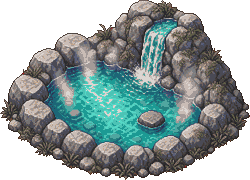
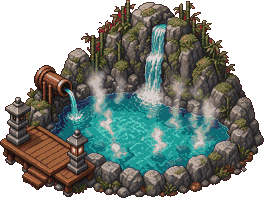
Add shooting/massage/pingpong/nap, 5 decor, distinct Lv2/4 art, manual water areas, small-item scale

diff --git a/assets/lights.js b/assets/lights.js
@@ -1,2 +1,2 @@
 // tools/lights.py 생성: 스프라이트별 광원 점 (마스크는 assets/lights/*.png)
-window.LIGHTS={"dango_lv1": [[0.752, 0.492, 83.0], [0.201, 0.476, 46.3], [0.377, 0.522, 45.9], [0.312, 0.37, 27.3], [0.554, 0.732, 22.0], [0.123, 0.407, 17.0], [0.248, 0.625, 13.0]], "dango_lv2": [[0.752, 0.492, 83.0], [0.201, 0.476, 46.3], [0.377, 0.522, 45.9], [0.312, 0.37, 27.3], [0.554, 0.732, 22.0], [0.123, 0.407, 17.0], [0.248, 0.625, 13.0]], "dango_lv3": [[0.306, 0.507, 44.0], [0.325, 0.594, 21.2], [0.106, 0.417, 18.9], [0.226, 0.546, 16.0], [0.321, 0.698, 12.0], [0.893, 0.456, 11.0], [0.733, 0.758, 11.0]], "dango_lv4": [[0.306, 0.507, 44.0], [0.325, 0.594, 21.2], [0.106, 0.417, 18.9], [0.226, 0.546, 16.0], [0.321, 0.698, 12.0], [0.893, 0.456, 11.0], [0.733, 0.758, 11.0]], "dango_lv5": [[0.593, 0.746, 344.0], [0.739, 0.675, 305.0], [0.058, 0.62, 284.0], [0.858, 0.424, 154.5], [0.869, 0.513, 128.7], [0.552, 0.044, 123.2], [0.632, 0.637, 89.0]], "gift_lv1": [[0.092, 0.39, 794.0], [0.139, 0.516, 7.0], [0.203, 0.609, 7.0], [0.044, 0.491, 5.0]], "gift_lv1_b": [[0.543, 0.547, 709.0], [0.197, 0.489, 570.0]], "gift_lv2": [[0.22, 0.538, 131.6], [0.677, 0.468, 115.4], [0.533, 0.762, 105.7], [0.445, 0.748, 83.3], [0.718, 0.765, 81.9], [0.247, 0.619, 43.4], [0.142, 0.227, 38.6]], "gift_lv3": [[0.141, 0.262, 147.0], [0.72, 0.769, 68.6], [0.14, 0.139, 22.8], [0.663, 0.482, 21.7], [0.412, 0.472, 19.6], [0.191, 0.424, 9.0]], "gift_lv4": [[0.127, 0.428, 1076.0], [0.128, 0.3, 7.0], [0.395, 0.075, 5.0], [0.081, 0.517, 5.0], [0.888, 0.637, 5.0]], "hinoki_lv1": [[0.154, 0.429, 40.6], [0.333, 0.497, 39.2], [0.518, 0.075, 24.5], [0.068, 0.261, 14.7], [0.539, 0.499, 14.0], [0.68, 0.149, 9.8], [0.222, 0.602, 9.1]], "hinoki_lv1_b": [[0.875, 0.443, 67.9], [0.681, 0.358, 10.5], [0.357, 0.698, 3.5], [0.542, 0.712, 3.5]], "hinoki_lv2": [[0.458, 0.389, 14.7], [0.547, 0.032, 11.9], [0.684, 0.089, 5.6], [0.14, 0.234, 5.6], [0.275, 0.623, 4.9], [0.58, 0.369, 4.2], [0.268, 0.455, 4.2]], "hinoki_lv2_b": [[0.552, 0.029, 5.6], [0.402, 0.384, 5.6]], "hinoki_lv3": [[0.402, 0.479, 18.9], [0.609, 0.606, 12.6], [0.794, 0.388, 9.1], [0.274, 0.46, 8.4], [0.389, 0.253, 6.3], [0.79, 0.503, 5.6], [0.497, 0.272, 4.9]], "hinoki_lv3_b": [[0.166, 0.424, 5.6], [0.555, 0.476, 4.2]], "ice_lv1": [[0.454, 0.743, 219.1], [0.598, 0.223, 191.1], [0.501, 0.186, 183.4], [0.403, 0.15, 179.9], [0.63, 0.549, 52.0], [0.512, 0.307, 38.5], [0.156, 0.373, 37.0]], "ice_lv2": [[0.454, 0.743, 219.1], [0.598, 0.223, 191.1], [0.501, 0.186, 183.4], [0.403, 0.15, 179.9], [0.63, 0.549, 52.0], [0.512, 0.307, 38.5], [0.156, 0.373, 37.0]], "ice_lv3": [[0.685, 0.56, 163.6], [0.602, 0.608, 56.0], [0.915, 0.478, 55.3], [0.238, 0.55, 34.3], [0.5, 0.581, 23.0], [0.325, 0.337, 21.0], [0.46, 0.649, 18.9]], "ice_lv4": [[0.685, 0.56, 163.6], [0.602, 0.608, 56.0], [0.915, 0.478, 55.3], [0.238, 0.55, 34.3], [0.5, 0.581, 23.0], [0.325, 0.337, 21.0], [0.46, 0.649, 18.9]], "ice_lv5": [[0.512, 0.152, 70.0], [0.783, 0.58, 67.2], [0.164, 0.62, 53.0], [0.877, 0.547, 29.4], [0.397, 0.756, 29.0], [0.477, 0.037, 26.5], [0.447, 0.115, 25.0]], "izakaya_lv1": [[0.221, 0.548, 178.2], [0.431, 0.526, 172.6], [0.52, 0.558, 168.5], [0.339, 0.493, 162.1], [0.16, 0.429, 161.2], [0.545, 0.676, 109.2], [0.384, 0.616, 78.0]], "izakaya_lv1_b": [[0.457, 0.313, 177.8], [0.607, 0.312, 126.0], [0.223, 0.312, 60.2], [0.184, 0.625, 39.9]], "izakaya_lv2": [[0.4, 0.645, 168.0], [0.507, 0.603, 161.0], [0.233, 0.505, 160.0], [0.371, 0.552, 158.0], [0.704, 0.639, 117.0], [0.294, 0.603, 94.0], [0.56, 0.691, 62.0]], "izakaya_lv3": [[0.199, 0.288, 1453.2], [0.201, 0.508, 109.9], [0.547, 0.556, 109.1], [0.105, 0.491, 102.8], [0.619, 0.577, 102.0], [0.708, 0.582, 101.8], [0.826, 0.517, 97.4]], "izakaya_lv3_b": [[0.351, 0.59, 251.0], [0.275, 0.571, 174.0], [0.144, 0.535, 21.0], [0.459, 0.665, 19.0], [0.529, 0.694, 9.0], [0.18, 0.676, 5.0]], "izakaya_lv4": [[0.185, 0.623, 129.0], [0.273, 0.321, 118.0], [0.586, 0.67, 109.0], [0.593, 0.32, 44.9], [0.79, 0.29, 36.0], [0.857, 0.268, 34.7], [0.526, 0.608, 30.0]], "izakaya_lv4_b": [[0.327, 0.648, 448.0], [0.512, 0.38, 289.0], [0.518, 0.711, 261.0], [0.3, 0.324, 210.0], [0.161, 0.589, 136.0], [0.627, 0.375, 24.6], [0.236, 0.293, 20.3]], "izakaya_lv5": [[0.45, 0.328, 146.2], [0.573, 0.338, 138.3], [0.573, 0.632, 122.9], [0.403, 0.61, 118.7], [0.245, 0.591, 115.6], [0.235, 0.304, 115.2], [0.326, 0.599, 113.4]], "izakaya_lv5_b": [[0.44, 0.679, 937.0], [0.16, 0.631, 703.0], [0.489, 0.357, 644.0], [0.574, 0.703, 563.0], [0.23, 0.326, 485.0], [0.593, 0.369, 261.0], [0.782, 0.664, 14.0]], "ramen_lv5": [[0.471, 0.747, 107.0], [0.088, 0.596, 106.0], [0.582, 0.731, 92.0], [0.885, 0.597, 85.0], [0.656, 0.696, 77.0], [0.495, 0.472, 76.0], [0.23, 0.385, 74.0]], "room_lv1": [[0.484, 0.312, 49.7], [0.116, 0.596, 48.3], [0.529, 0.699, 48.3], [0.28, 0.568, 42.7], [0.342, 0.276, 37.1], [0.605, 0.616, 25.2], [0.289, 0.842, 13.3]], "room_lv1_b": [[0.208, 0.54, 13.3], [0.506, 0.665, 12.6], [0.681, 0.612, 7.7], [0.38, 0.246, 7.0], [0.168, 0.466, 7.0], [0.45, 0.607, 7.0]], "room_lv2": [[0.546, 0.638, 18.2], [0.549, 0.748, 18.2], [0.278, 0.539, 16.1], [0.633, 0.632, 16.1], [0.092, 0.572, 14.7], [0.396, 0.556, 10.5], [0.796, 0.565, 9.1]], "room_lv2_b": [[0.534, 0.671, 31.5], [0.782, 0.591, 7.7], [0.254, 0.557, 6.3], [0.183, 0.496, 5.6], [0.454, 0.636, 4.9], [0.69, 0.613, 3.5]], "room_lv3": [[0.53, 0.637, 59.5], [0.124, 0.595, 35.7], [0.611, 0.648, 28.7], [0.54, 0.751, 23.1], [0.278, 0.562, 18.2], [0.791, 0.575, 9.8], [0.4, 0.58, 7.0]], "room_lv3_b": [[0.489, 0.707, 85.4], [0.163, 0.528, 44.1], [0.219, 0.564, 42.7], [0.325, 0.626, 12.6], [0.798, 0.586, 10.5], [0.407, 0.646, 9.1]], "room_lv4": [[0.541, 0.734, 77.7], [0.49, 0.465, 29.4], [0.081, 0.635, 18.9], [0.55, 0.825, 16.8], [0.412, 0.253, 11.9], [0.288, 0.383, 11.9], [0.411, 0.433, 11.9]], "room_lv4_b": [[0.529, 0.757, 59.5], [0.536, 0.504, 35.0], [0.251, 0.368, 14.7], [0.151, 0.567, 11.2], [0.413, 0.254, 9.8], [0.307, 0.403, 8.4], [0.683, 0.685, 6.3]], "room_lv5": [[0.514, 0.738, 62.3], [0.468, 0.477, 24.5], [0.163, 0.749, 21.0], [0.351, 0.43, 11.2], [0.496, 0.916, 11.2], [0.656, 0.687, 9.1], [0.781, 0.395, 8.4]], "room_lv5_b": [[0.502, 0.499, 30.8], [0.451, 0.472, 14.7], [0.179, 0.574, 9.1], [0.155, 0.768, 9.1], [0.429, 0.703, 7.7], [0.481, 0.746, 7.0], [0.297, 0.399, 6.3]], "sauna_lv1": [[0.852, 0.658, 63.7], [0.481, 0.559, 40.6], [0.196, 0.461, 11.2], [0.778, 0.766, 10.5], [0.162, 0.639, 8.4], [0.191, 0.849, 4.9], [0.093, 0.697, 3.5]], "sauna_lv1_b": [[0.501, 0.633, 28.7], [0.098, 0.65, 11.9]], "sauna_lv2": [[0.874, 0.69, 98.7], [0.699, 0.04, 74.9], [0.482, 0.591, 58.1], [0.181, 0.495, 18.9], [0.067, 0.723, 17.5], [0.145, 0.671, 11.9], [0.346, 0.792, 5.6]], "sauna_lv2_b": [[0.281, 0.046, 86.8], [0.11, 0.705, 34.3]], "sauna_lv3": [[0.175, 0.685, 48.3], [0.716, 0.554, 26.6], [0.227, 0.453, 23.1], [0.606, 0.625, 5.6], [0.275, 0.646, 5.6], [0.68, 0.067, 4.9], [0.467, 0.757, 4.2]], "sauna_lv4": [[0.175, 0.683, 47.6], [0.175, 0.436, 25.2], [0.76, 0.543, 25.2], [0.79, 0.496, 14.0], [0.59, 0.595, 8.4], [0.077, 0.427, 7.0], [0.46, 0.749, 5.6]], "sauna_lv5": [[0.308, 0.499, 28.7], [0.706, 0.548, 28.7], [0.553, 0.605, 8.4], [0.12, 0.428, 7.0], [0.21, 0.686, 7.0], [0.262, 0.45, 4.2]], "tea_lv1": [[0.33, 0.775, 106.0], [0.548, 0.591, 63.0], [0.516, 0.468, 51.0], [0.287, 0.337, 37.0], [0.165, 0.309, 35.0], [0.618, 0.705, 17.0], [0.46, 0.917, 16.0]], "tea_lv2": [[0.33, 0.775, 106.0], [0.548, 0.591, 63.0], [0.516, 0.468, 51.0], [0.287, 0.337, 37.0], [0.165, 0.309, 35.0], [0.618, 0.705, 17.0], [0.46, 0.917, 16.0]], "tea_lv3": [[0.329, 0.492, 47.0], [0.512, 0.64, 35.0], [0.272, 0.548, 15.0], [0.091, 0.568, 14.0], [0.164, 0.486, 10.0], [0.011, 0.734, 5.0], [0.793, 0.563, 4.9]], "tea_lv4": [[0.329, 0.492, 47.0], [0.512, 0.64, 35.0], [0.272, 0.548, 15.0], [0.091, 0.568, 14.0], [0.164, 0.486, 10.0], [0.011, 0.734, 5.0], [0.793, 0.563, 4.9]], "tea_lv5": [[0.487, 0.656, 224.0], [0.696, 0.496, 62.0], [0.337, 0.577, 59.0], [0.33, 0.43, 46.0], [0.445, 0.311, 12.0], [0.403, 0.633, 8.0], [0.249, 0.395, 7.0]], "teishoku_lv1": [[0.606, 0.615, 539.0], [0.887, 0.514, 42.0], [0.545, 0.672, 32.0], [0.256, 0.701, 32.0], [0.354, 0.737, 25.0], [0.609, 0.946, 21.0], [0.723, 0.758, 14.0]], "teishoku_lv1_b": [[0.279, 0.465, 19.6], [0.062, 0.492, 7.0]], "teishoku_lv2": [[0.578, 0.57, 470.0], [0.48, 0.207, 207.0], [0.888, 0.472, 44.0], [0.826, 0.656, 13.0], [0.21, 0.571, 12.0], [0.284, 0.609, 11.0], [0.436, 0.678, 9.0]], "teishoku_lv3": [[0.53, 0.689, 325.0], [0.612, 0.651, 301.0], [0.09, 0.468, 261.0], [0.924, 0.467, 242.0], [0.702, 0.6, 98.0], [0.157, 0.548, 58.0], [0.515, 0.935, 34.0]], "teishoku_lv4": [[0.506, 0.712, 209.0], [0.098, 0.532, 187.0], [0.903, 0.529, 176.0], [0.191, 0.305, 158.0], [0.574, 0.68, 155.0], [0.818, 0.31, 149.0], [0.605, 0.398, 144.0]], "teishoku_lv5": [[0.662, 0.121, 28.0], [0.279, 0.806, 25.0], [0.136, 0.682, 24.0], [0.589, 0.728, 20.0], [0.244, 0.345, 19.0], [0.51, 0.726, 18.0], [0.558, 0.487, 17.0]], "teishoku_lv5_b": [[0.356, 0.638, 537.0], [0.565, 0.685, 431.0], [0.172, 0.595, 401.0], [0.557, 0.414, 353.0], [0.201, 0.352, 101.0], [0.345, 0.377, 84.0], [0.733, 0.372, 15.0]], "wine_lv1": [[0.659, 0.271, 69.0], [0.621, 0.401, 50.0], [0.412, 0.464, 44.0], [0.409, 0.172, 42.0], [0.234, 0.482, 40.0], [0.256, 0.192, 39.0], [0.566, 0.196, 31.0]], "wine_lv2": [[0.659, 0.271, 69.0], [0.621, 0.401, 50.0], [0.412, 0.464, 44.0], [0.409, 0.172, 42.0], [0.234, 0.482, 40.0], [0.256, 0.192, 39.0], [0.566, 0.196, 31.0]], "wine_lv3": [[0.355, 0.582, 23.0], [0.239, 0.342, 18.0], [0.794, 0.345, 18.0], [0.546, 0.219, 16.9], [0.276, 0.565, 10.0], [0.461, 0.572, 8.0], [0.478, 0.016, 5.0]], "wine_lv4": [[0.355, 0.582, 23.0], [0.239, 0.342, 18.0], [0.794, 0.345, 18.0], [0.546, 0.219, 16.9], [0.276, 0.565, 10.0], [0.461, 0.572, 8.0], [0.478, 0.016, 5.0]], "wine_lv5": [[0.926, 0.388, 44.1], [0.319, 0.263, 23.1], [0.686, 0.475, 21.7], [0.186, 0.361, 7.7], [0.094, 0.699, 7.7], [0.244, 0.813, 4.9], [0.063, 0.588, 4.2]], "yuzu_lv3": [[0.612, 0.642, 78.0], [0.721, 0.545, 61.0], [0.774, 0.71, 55.0], [0.228, 0.555, 53.0], [0.301, 0.575, 35.0], [0.405, 0.66, 20.0], [0.569, 0.474, 17.0]], "yuzu_lv3_b": [[0.209, 0.563, 46.0], [0.312, 0.653, 42.0]], "yuzu_lv4": [[0.509, 0.525, 18.9], [0.127, 0.401, 17.5], [0.3, 0.554, 17.5], [0.636, 0.486, 16.8], [0.231, 0.528, 16.1], [0.427, 0.808, 8.4], [0.429, 0.645, 6.3]], "yuzu_lv4_b": [[0.103, 0.401, 16.8], [0.579, 0.534, 14.7], [0.867, 0.42, 14.0]], "yuzu_lv5": [[0.577, 0.73, 93.1], [0.275, 0.356, 89.6], [0.185, 0.628, 76.3], [0.571, 0.453, 74.2], [0.46, 0.41, 66.5], [0.688, 0.686, 41.3], [0.525, 0.769, 28.0]], "yuzu_lv5_b": [[0.557, 0.764, 191.8], [0.261, 0.354, 137.2], [0.569, 0.455, 136.5], [0.509, 0.428, 87.5], [0.17, 0.624, 76.3], [0.487, 0.713, 18.9], [0.726, 0.406, 17.5]]};
+window.LIGHTS={"cave_lv2": [[0.17, 0.614, 6.0]], "cave_lv4": [[0.361, 0.755, 11.0], [0.36, 0.544, 9.0], [0.255, 0.593, 9.0], [0.4, 0.429, 8.0], [0.735, 0.71, 8.0], [0.41, 0.153, 7.0], [0.529, 0.274, 7.0]], "dango_lv1": [[0.752, 0.492, 83.0], [0.201, 0.476, 46.3], [0.377, 0.522, 45.9], [0.312, 0.37, 27.3], [0.554, 0.732, 22.0], [0.123, 0.407, 17.0], [0.248, 0.625, 13.0]], "dango_lv2": [[0.83, 0.507, 85.0], [0.23, 0.473, 45.0], [0.727, 0.354, 30.0], [0.322, 0.597, 24.4], [0.257, 0.557, 12.0], [0.548, 0.969, 11.0], [0.895, 0.441, 10.9]], "dango_lv3": [[0.306, 0.507, 44.0], [0.325, 0.594, 21.2], [0.106, 0.417, 18.9], [0.226, 0.546, 16.0], [0.321, 0.698, 12.0], [0.893, 0.456, 11.0], [0.733, 0.758, 11.0]], "dango_lv4": [[0.906, 0.498, 198.1], [0.725, 0.672, 192.0], [0.57, 0.735, 147.0], [0.838, 0.4, 142.1], [0.04, 0.611, 142.0], [0.55, 0.043, 102.2], [0.838, 0.538, 65.3]], "dango_lv5": [[0.593, 0.746, 344.0], [0.739, 0.675, 305.0], [0.058, 0.62, 284.0], [0.858, 0.424, 154.5], [0.869, 0.513, 128.7], [0.552, 0.044, 123.2], [0.632, 0.637, 89.0]], "fall_lv2": [[0.144, 0.826, 5.0]], "fall_lv4": [[0.178, 0.365, 5.0], [0.132, 0.694, 5.0], [0.405, 0.803, 5.0]], "fam_lv2": [[0.301, 0.503, 32.0], [0.258, 0.408, 20.9], [0.411, 0.745, 17.0], [0.626, 0.54, 15.1], [0.138, 0.598, 14.0], [0.541, 0.512, 12.0], [0.055, 0.555, 12.0]], "fam_lv4": [[0.493, 0.442, 29.0], [0.477, 0.66, 27.2], [0.197, 0.308, 14.0], [0.2, 0.541, 14.0], [0.469, 0.915, 12.5], [0.365, 0.223, 12.0], [0.164, 0.717, 9.5]], "foot_lv2": [[0.402, 0.733, 51.0], [0.365, 0.011, 16.0], [0.73, 0.188, 13.0], [0.408, 0.346, 13.0], [0.545, 0.686, 12.0], [0.635, 0.448, 10.0], [0.932, 0.4, 9.0]], "foot_lv4": [[0.732, 0.553, 5.0]], "gift_lv1": [[0.092, 0.39, 794.0], [0.139, 0.516, 7.0], [0.203, 0.609, 7.0], [0.044, 0.491, 5.0]], "gift_lv1_b": [[0.543, 0.547, 709.0], [0.197, 0.489, 570.0]], "gift_lv2": [[0.22, 0.538, 131.6], [0.677, 0.468, 115.4], [0.533, 0.762, 105.7], [0.445, 0.748, 83.3], [0.718, 0.765, 81.9], [0.247, 0.619, 43.4], [0.142, 0.227, 38.6]], "gift_lv3": [[0.141, 0.262, 147.0], [0.72, 0.769, 68.6], [0.14, 0.139, 22.8], [0.663, 0.482, 21.7], [0.412, 0.472, 19.6], [0.191, 0.424, 9.0]], "gift_lv4": [[0.127, 0.428, 1076.0], [0.128, 0.3, 7.0], [0.395, 0.075, 5.0], [0.081, 0.517, 5.0], [0.888, 0.637, 5.0]], "hinoki_lv1": [[0.154, 0.429, 40.6], [0.333, 0.497, 39.2], [0.518, 0.075, 24.5], [0.068, 0.261, 14.7], [0.539, 0.499, 14.0], [0.68, 0.149, 9.8], [0.222, 0.602, 9.1]], "hinoki_lv1_b": [[0.875, 0.443, 67.9], [0.681, 0.358, 10.5], [0.357, 0.698, 3.5], [0.542, 0.712, 3.5]], "hinoki_lv2": [[0.458, 0.389, 14.7], [0.547, 0.032, 11.9], [0.684, 0.089, 5.6], [0.14, 0.234, 5.6], [0.275, 0.623, 4.9], [0.58, 0.369, 4.2], [0.268, 0.455, 4.2]], "hinoki_lv2_b": [[0.552, 0.029, 5.6], [0.402, 0.384, 5.6]], "hinoki_lv3": [[0.402, 0.479, 18.9], [0.609, 0.606, 12.6], [0.794, 0.388, 9.1], [0.274, 0.46, 8.4], [0.389, 0.253, 6.3], [0.79, 0.503, 5.6], [0.497, 0.272, 4.9]], "hinoki_lv3_b": [[0.166, 0.424, 5.6], [0.555, 0.476, 4.2]], "ice_lv1": [[0.454, 0.743, 219.1], [0.598, 0.223, 191.1], [0.501, 0.186, 183.4], [0.403, 0.15, 179.9], [0.63, 0.549, 52.0], [0.512, 0.307, 38.5], [0.156, 0.373, 37.0]], "ice_lv2": [[0.499, 0.353, 82.6], [0.299, 0.279, 79.1], [0.203, 0.243, 72.1], [0.596, 0.389, 71.1], [0.4, 0.316, 66.5], [0.119, 0.211, 55.1], [0.623, 0.188, 44.8]], "ice_lv3": [[0.685, 0.56, 163.6], [0.602, 0.608, 56.0], [0.915, 0.478, 55.3], [0.238, 0.55, 34.3], [0.5, 0.581, 23.0], [0.325, 0.337, 21.0], [0.46, 0.649, 18.9]], "ice_lv4": [[0.69, 0.668, 110.1], [0.62, 0.704, 106.5], [0.513, 0.451, 85.8], [0.293, 0.379, 62.7], [0.923, 0.576, 48.3], [0.122, 0.61, 20.8], [0.449, 0.06, 15.2]], "ice_lv5": [[0.512, 0.152, 70.0], [0.783, 0.58, 67.2], [0.164, 0.62, 53.0], [0.877, 0.547, 29.4], [0.397, 0.756, 29.0], [0.477, 0.037, 26.5], [0.447, 0.115, 25.0]], "izakaya_lv1": [[0.221, 0.548, 178.2], [0.431, 0.526, 172.6], [0.52, 0.558, 168.5], [0.339, 0.493, 162.1], [0.16, 0.429, 161.2], [0.545, 0.676, 109.2], [0.384, 0.616, 78.0]], "izakaya_lv1_b": [[0.457, 0.313, 177.8], [0.607, 0.312, 126.0], [0.223, 0.312, 60.2], [0.184, 0.625, 39.9]], "izakaya_lv2": [[0.4, 0.645, 168.0], [0.507, 0.603, 161.0], [0.233, 0.505, 160.0], [0.371, 0.552, 158.0], [0.704, 0.639, 117.0], [0.294, 0.603, 94.0], [0.56, 0.691, 62.0]], "izakaya_lv3": [[0.199, 0.288, 1453.2], [0.201, 0.508, 109.9], [0.547, 0.556, 109.1], [0.105, 0.491, 102.8], [0.619, 0.577, 102.0], [0.708, 0.582, 101.8], [0.826, 0.517, 97.4]], "izakaya_lv3_b": [[0.351, 0.59, 251.0], [0.275, 0.571, 174.0], [0.144, 0.535, 21.0], [0.459, 0.665, 19.0], [0.529, 0.694, 9.0], [0.18, 0.676, 5.0]], "izakaya_lv4": [[0.185, 0.623, 129.0], [0.273, 0.321, 118.0], [0.586, 0.67, 109.0], [0.593, 0.32, 44.9], [0.79, 0.29, 36.0], [0.857, 0.268, 34.7], [0.526, 0.608, 30.0]], "izakaya_lv4_b": [[0.327, 0.648, 448.0], [0.512, 0.38, 289.0], [0.518, 0.711, 261.0], [0.3, 0.324, 210.0], [0.161, 0.589, 136.0], [0.627, 0.375, 24.6], [0.236, 0.293, 20.3]], "izakaya_lv5": [[0.45, 0.328, 146.2], [0.573, 0.338, 138.3], [0.573, 0.632, 122.9], [0.403, 0.61, 118.7], [0.245, 0.591, 115.6], [0.235, 0.304, 115.2], [0.326, 0.599, 113.4]], "izakaya_lv5_b": [[0.44, 0.679, 937.0], [0.16, 0.631, 703.0], [0.489, 0.357, 644.0], [0.574, 0.703, 563.0], [0.23, 0.326, 485.0], [0.593, 0.369, 261.0], [0.782, 0.664, 14.0]], "massage_lv1": [[0.661, 0.445, 153.0], [0.405, 0.584, 22.4], [0.297, 0.697, 21.0], [0.393, 0.326, 20.6], [0.553, 0.393, 17.0], [0.328, 0.622, 3.5]], "massage_lv2": [[0.393, 0.501, 44.1], [0.394, 0.323, 21.2], [0.49, 0.486, 11.2], [0.327, 0.568, 8.4], [0.461, 0.41, 7.0], [0.546, 0.687, 5.6], [0.458, 0.61, 4.9]], "massage_lv3": [[0.144, 0.515, 372.0], [0.685, 0.438, 38.0], [0.242, 0.489, 34.0], [0.809, 0.559, 32.0], [0.482, 0.341, 31.0], [0.293, 0.423, 27.0], [0.886, 0.511, 27.0]], "massage_lv4": [[0.633, 0.548, 50.9], [0.24, 0.424, 39.3], [0.618, 0.431, 26.0], [0.137, 0.633, 25.7], [0.355, 0.32, 16.4], [0.405, 0.559, 16.1], [0.908, 0.421, 13.4]], "massage_lv5": [[0.331, 0.864, 259.3], [0.233, 0.854, 80.3], [0.551, 0.948, 70.1], [0.375, 0.942, 50.2], [0.184, 0.812, 40.6], [0.677, 0.42, 34.0], [0.338, 0.313, 30.0]], "nap_lv1": [[0.669, 0.467, 383.0], [0.378, 0.37, 29.0], [0.492, 0.369, 26.0], [0.583, 0.416, 21.7], [0.858, 0.531, 21.0], [0.772, 0.64, 19.6], [0.097, 0.448, 17.0]], "nap_lv2": [[0.603, 0.431, 119.0], [0.667, 0.465, 67.0], [0.379, 0.366, 36.0], [0.496, 0.361, 33.0], [0.664, 0.68, 32.2], [0.789, 0.7, 31.5], [0.456, 0.426, 28.2]], "nap_lv3": [[0.806, 0.55, 202.0], [0.344, 0.36, 95.6], [0.164, 0.613, 70.7], [0.339, 0.719, 55.3], [0.676, 0.672, 47.6], [0.57, 0.399, 39.0], [0.458, 0.549, 28.0]], "nap_lv4": [[0.207, 0.441, 189.0], [0.31, 0.376, 132.0], [0.092, 0.492, 113.0], [0.408, 0.325, 111.0], [0.845, 0.466, 88.0], [0.658, 0.687, 46.2], [0.39, 0.49, 33.6]], "nap_lv5": [[0.417, 0.82, 45.7], [0.315, 0.743, 34.9], [0.446, 0.891, 20.9], [0.641, 0.664, 20.0], [0.452, 0.603, 18.2], [0.383, 0.561, 16.8], [0.244, 0.717, 15.1]], "pingpong_lv1": [[0.646, 0.702, 155.4], [0.687, 0.449, 48.0], [0.403, 0.761, 17.0], [0.264, 0.681, 16.0], [0.062, 0.563, 14.0], [0.404, 0.324, 12.6], [0.241, 0.372, 11.0]], "pingpong_lv2": [[0.82, 0.512, 186.1], [0.595, 0.696, 96.6], [0.403, 0.322, 19.2], [0.325, 0.704, 11.0], [0.066, 0.553, 9.0], [0.161, 0.609, 9.0], [0.366, 0.641, 8.0]], "pingpong_lv3": [[0.113, 0.526, 111.2], [0.486, 0.352, 98.3], [0.279, 0.437, 39.0], [0.757, 0.49, 32.1], [0.375, 0.382, 22.9], [0.189, 0.473, 22.0], [0.603, 0.431, 14.7]], "pingpong_lv4": [[0.139, 0.449, 52.0], [0.252, 0.377, 32.0], [0.717, 0.532, 24.0], [0.594, 0.448, 23.0], [0.919, 0.382, 10.9], [0.216, 0.707, 7.0], [0.367, 0.291, 3.5]], "pingpong_lv5": [[0.286, 0.503, 75.8], [0.551, 0.64, 46.5], [0.558, 0.416, 37.0], [0.265, 0.267, 21.7], [0.833, 0.33, 19.7], [0.891, 0.507, 15.4], [0.752, 0.352, 10.0]], "ramen_lv5": [[0.471, 0.747, 107.0], [0.088, 0.596, 106.0], [0.582, 0.731, 92.0], [0.885, 0.597, 85.0], [0.656, 0.696, 77.0], [0.495, 0.472, 76.0], [0.23, 0.385, 74.0]], "room_lv1": [[0.484, 0.312, 49.7], [0.116, 0.596, 48.3], [0.529, 0.699, 48.3], [0.28, 0.568, 42.7], [0.342, 0.276, 37.1], [0.605, 0.616, 25.2], [0.289, 0.842, 13.3]], "room_lv1_b": [[0.208, 0.54, 13.3], [0.506, 0.665, 12.6], [0.681, 0.612, 7.7], [0.38, 0.246, 7.0], [0.168, 0.466, 7.0], [0.45, 0.607, 7.0]], "room_lv2": [[0.546, 0.638, 18.2], [0.549, 0.748, 18.2], [0.278, 0.539, 16.1], [0.633, 0.632, 16.1], [0.092, 0.572, 14.7], [0.396, 0.556, 10.5], [0.796, 0.565, 9.1]], "room_lv2_b": [[0.534, 0.671, 31.5], [0.782, 0.591, 7.7], [0.254, 0.557, 6.3], [0.183, 0.496, 5.6], [0.454, 0.636, 4.9], [0.69, 0.613, 3.5]], "room_lv3": [[0.53, 0.637, 59.5], [0.124, 0.595, 35.7], [0.611, 0.648, 28.7], [0.54, 0.751, 23.1], [0.278, 0.562, 18.2], [0.791, 0.575, 9.8], [0.4, 0.58, 7.0]], "room_lv3_b": [[0.489, 0.707, 85.4], [0.163, 0.528, 44.1], [0.219, 0.564, 42.7], [0.325, 0.626, 12.6], [0.798, 0.586, 10.5], [0.407, 0.646, 9.1]], "room_lv4": [[0.541, 0.734, 77.7], [0.49, 0.465, 29.4], [0.081, 0.635, 18.9], [0.55, 0.825, 16.8], [0.412, 0.253, 11.9], [0.288, 0.383, 11.9], [0.411, 0.433, 11.9]], "room_lv4_b": [[0.529, 0.757, 59.5], [0.536, 0.504, 35.0], [0.251, 0.368, 14.7], [0.151, 0.567, 11.2], [0.413, 0.254, 9.8], [0.307, 0.403, 8.4], [0.683, 0.685, 6.3]], "room_lv5": [[0.514, 0.738, 62.3], [0.468, 0.477, 24.5], [0.163, 0.749, 21.0], [0.351, 0.43, 11.2], [0.496, 0.916, 11.2], [0.656, 0.687, 9.1], [0.781, 0.395, 8.4]], "room_lv5_b": [[0.502, 0.499, 30.8], [0.451, 0.472, 14.7], [0.179, 0.574, 9.1], [0.155, 0.768, 9.1], [0.429, 0.703, 7.7], [0.481, 0.746, 7.0], [0.297, 0.399, 6.3]], "sake_lv2": [[0.173, 0.265, 1121.5], [0.192, 0.553, 56.0], [0.613, 0.621, 49.0], [0.537, 0.536, 46.1], [0.079, 0.459, 43.1], [0.772, 0.528, 32.4], [0.838, 0.488, 28.5]], "sake_lv4": [[0.723, 0.718, 76.0], [0.716, 0.811, 60.0], [0.817, 0.591, 56.0], [0.595, 0.636, 43.6], [0.594, 0.324, 39.8], [0.836, 0.263, 38.0], [0.716, 0.308, 38.0]], "sauna_lv1": [[0.852, 0.658, 63.7], [0.481, 0.559, 40.6], [0.196, 0.461, 11.2], [0.778, 0.766, 10.5], [0.162, 0.639, 8.4], [0.191, 0.849, 4.9], [0.093, 0.697, 3.5]], "sauna_lv1_b": [[0.501, 0.633, 28.7], [0.098, 0.65, 11.9]], "sauna_lv2": [[0.874, 0.69, 98.7], [0.699, 0.04, 74.9], [0.482, 0.591, 58.1], [0.181, 0.495, 18.9], [0.067, 0.723, 17.5], [0.145, 0.671, 11.9], [0.346, 0.792, 5.6]], "sauna_lv2_b": [[0.281, 0.046, 86.8], [0.11, 0.705, 34.3]], "sauna_lv3": [[0.175, 0.685, 48.3], [0.716, 0.554, 26.6], [0.227, 0.453, 23.1], [0.606, 0.625, 5.6], [0.275, 0.646, 5.6], [0.68, 0.067, 4.9], [0.467, 0.757, 4.2]], "sauna_lv4": [[0.175, 0.683, 47.6], [0.175, 0.436, 25.2], [0.76, 0.543, 25.2], [0.79, 0.496, 14.0], [0.59, 0.595, 8.4], [0.077, 0.427, 7.0], [0.46, 0.749, 5.6]], "sauna_lv5": [[0.308, 0.499, 28.7], [0.706, 0.548, 28.7], [0.553, 0.605, 8.4], [0.12, 0.428, 7.0], [0.21, 0.686, 7.0], [0.262, 0.45, 4.2]], "shoot_lv1": [[0.627, 0.344, 164.0], [0.526, 0.315, 158.0], [0.325, 0.254, 153.0], [0.425, 0.285, 153.0], [0.225, 0.225, 152.0], [0.13, 0.196, 147.0], [0.466, 0.534, 133.1]], "shoot_lv2": [[0.664, 0.359, 134.0], [0.48, 0.304, 132.0], [0.293, 0.249, 131.0], [0.386, 0.277, 130.0], [0.57, 0.332, 130.0], [0.203, 0.223, 128.0], [0.114, 0.196, 127.0]], "shoot_lv3": [[0.387, 0.298, 172.7], [0.204, 0.254, 171.8], [0.627, 0.355, 161.2], [0.297, 0.276, 161.1], [0.528, 0.333, 158.3], [0.115, 0.234, 157.2], [0.279, 0.348, 100.0]], "shoot_lv4": [[0.583, 0.449, 101.2], [0.163, 0.395, 61.0], [0.286, 0.428, 46.0], [0.278, 0.514, 43.2], [0.788, 0.687, 38.9], [0.788, 0.522, 37.2], [0.15, 0.477, 25.7]], "shoot_lv5": [[0.561, 0.876, 281.2], [0.342, 0.712, 56.7], [0.42, 0.452, 53.0], [0.245, 0.394, 51.3], [0.819, 0.669, 41.0], [0.116, 0.289, 40.9], [0.347, 0.361, 40.0]], "tea_lv1": [[0.33, 0.775, 106.0], [0.548, 0.591, 63.0], [0.516, 0.468, 51.0], [0.287, 0.337, 37.0], [0.165, 0.309, 35.0], [0.618, 0.705, 17.0], [0.46, 0.917, 16.0]], "tea_lv2": [[0.47, 0.497, 37.2], [0.275, 0.421, 28.9], [0.152, 0.39, 20.0], [0.486, 0.761, 16.0], [0.723, 0.141, 8.0], [0.224, 0.702, 8.0], [0.408, 0.961, 8.0]], "tea_lv3": [[0.329, 0.492, 47.0], [0.512, 0.64, 35.0], [0.272, 0.548, 15.0], [0.091, 0.568, 14.0], [0.164, 0.486, 10.0], [0.011, 0.734, 5.0], [0.793, 0.563, 4.9]], "tea_lv4": [[0.162, 0.728, 17.1], [0.412, 0.306, 17.0], [0.528, 0.616, 11.0], [0.245, 0.466, 10.0], [0.644, 0.605, 6.0], [0.497, 0.931, 4.9]], "tea_lv5": [[0.487, 0.656, 224.0], [0.696, 0.496, 62.0], [0.337, 0.577, 59.0], [0.33, 0.43, 46.0], [0.445, 0.311, 12.0], [0.403, 0.633, 8.0], [0.249, 0.395, 7.0]], "teishoku_lv1": [[0.606, 0.615, 539.0], [0.887, 0.514, 42.0], [0.545, 0.672, 32.0], [0.256, 0.701, 32.0], [0.354, 0.737, 25.0], [0.609, 0.946, 21.0], [0.723, 0.758, 14.0]], "teishoku_lv1_b": [[0.279, 0.465, 19.6], [0.062, 0.492, 7.0]], "teishoku_lv2": [[0.578, 0.57, 470.0], [0.48, 0.207, 207.0], [0.888, 0.472, 44.0], [0.826, 0.656, 13.0], [0.21, 0.571, 12.0], [0.284, 0.609, 11.0], [0.436, 0.678, 9.0]], "teishoku_lv3": [[0.53, 0.689, 325.0], [0.612, 0.651, 301.0], [0.09, 0.468, 261.0], [0.924, 0.467, 242.0], [0.702, 0.6, 98.0], [0.157, 0.548, 58.0], [0.515, 0.935, 34.0]], "teishoku_lv4": [[0.506, 0.712, 209.0], [0.098, 0.532, 187.0], [0.903, 0.529, 176.0], [0.191, 0.305, 158.0], [0.574, 0.68, 155.0], [0.818, 0.31, 149.0], [0.605, 0.398, 144.0]], "teishoku_lv5": [[0.662, 0.121, 28.0], [0.279, 0.806, 25.0], [0.136, 0.682, 24.0], [0.589, 0.728, 20.0], [0.244, 0.345, 19.0], [0.51, 0.726, 18.0], [0.558, 0.487, 17.0]], "teishoku_lv5_b": [[0.356, 0.638, 537.0], [0.565, 0.685, 431.0], [0.172, 0.595, 401.0], [0.557, 0.414, 353.0], [0.201, 0.352, 101.0], [0.345, 0.377, 84.0], [0.733, 0.372, 15.0]], "wine_lv1": [[0.659, 0.271, 69.0], [0.621, 0.401, 50.0], [0.412, 0.464, 44.0], [0.409, 0.172, 42.0], [0.234, 0.482, 40.0], [0.256, 0.192, 39.0], [0.566, 0.196, 31.0]], "wine_lv2": [[0.768, 0.345, 20.7], [0.612, 0.338, 19.0], [0.316, 0.375, 19.0], [0.415, 0.319, 18.0], [0.238, 0.343, 15.9], [0.55, 0.226, 13.0], [0.713, 0.528, 5.0]], "wine_lv3": [[0.355, 0.582, 23.0], [0.239, 0.342, 18.0], [0.794, 0.345, 18.0], [0.546, 0.219, 16.9], [0.276, 0.565, 10.0], [0.461, 0.572, 8.0], [0.478, 0.016, 5.0]], "wine_lv4": [[0.729, 0.347, 59.0], [0.648, 0.301, 41.0], [0.803, 0.394, 18.3], [0.384, 0.346, 12.0], [0.598, 0.369, 12.0], [0.223, 0.847, 10.0], [0.893, 0.393, 8.4]], "wine_lv5": [[0.926, 0.388, 44.1], [0.319, 0.263, 23.1], [0.686, 0.475, 21.7], [0.186, 0.361, 7.7], [0.094, 0.699, 7.7], [0.244, 0.813, 4.9], [0.063, 0.588, 4.2]], "yuzu_lv3": [[0.612, 0.642, 78.0], [0.721, 0.545, 61.0], [0.774, 0.71, 55.0], [0.228, 0.555, 53.0], [0.301, 0.575, 35.0], [0.405, 0.66, 20.0], [0.569, 0.474, 17.0]], "yuzu_lv3_b": [[0.209, 0.563, 46.0], [0.312, 0.653, 42.0]], "yuzu_lv4": [[0.509, 0.525, 18.9], [0.127, 0.401, 17.5], [0.3, 0.554, 17.5], [0.636, 0.486, 16.8], [0.231, 0.528, 16.1], [0.427, 0.808, 8.4], [0.429, 0.645, 6.3]], "yuzu_lv4_b": [[0.103, 0.401, 16.8], [0.579, 0.534, 14.7], [0.867, 0.42, 14.0]], "yuzu_lv5": [[0.577, 0.73, 93.1], [0.275, 0.356, 89.6], [0.185, 0.628, 76.3], [0.571, 0.453, 74.2], [0.46, 0.41, 66.5], [0.688, 0.686, 41.3], [0.525, 0.769, 28.0]], "yuzu_lv5_b": [[0.557, 0.764, 191.8], [0.261, 0.354, 137.2], [0.569, 0.455, 136.5], [0.509, 0.428, 87.5], [0.17, 0.624, 76.3], [0.487, 0.713, 18.9], [0.726, 0.406, 17.5]]};

diff --git a/game.js b/game.js
@@ -15,16 +15,20 @@ const DEF={
  fall:{n:'폭포탕',tab:'bath',img:'fall',fp:4,sc:1,cost:22000,price:1400,cap:6,dur:30,eff:{fatigue:-85,fun:25},wage:110,star:4,bath:1,water:'#86e0e6',appeal:20,desc:'쏟아지는 폭포 아래 노천탕'},
  fam:{n:'가족탕',tab:'bath',inside:1,img:'fam',fp:2,sc:1,cost:12000,price:1600,cap:4,dur:26,eff:{fatigue:-60,fun:20},wage:70,star:3,appeal:10,light:[[0.1,-0.5]],desc:'가족끼리 오붓한 전세 욕탕'},
  wine:{n:'와인탕',tab:'bath',img:'wine',fp:2,sc:1,cost:18000,price:1500,cap:3,dur:24,eff:{fatigue:-60,fun:30},wage:90,star:4,bath:1,water:'#8a1f3a',appeal:14,desc:'포도향 가득 레드 와인탕'},
- dango:{n:'당고 노점',tab:'food',img:'dango',fp:1,sc:1,cost:2000,price:300,cap:2,dur:8,eff:{hunger:-30,fun:10},wage:15,star:1,appeal:4,light:[[0.2,-0.4]],desc:'달콤한 미타라시 당고'},
+ dango:{n:'당고 노점',tab:'food',img:'dango',fp:1,sc:1.3,cost:2000,price:300,cap:2,dur:8,eff:{hunger:-30,fun:10},wage:15,star:1,appeal:4,light:[[0.2,-0.4]],desc:'달콤한 미타라시 당고'},
  sake:{n:'사케 바',tab:'food',img:'sake',fp:2,sc:1,cost:9000,price:1000,cap:3,dur:16,eff:{hunger:-20,fun:40},wage:60,star:2,appeal:8,light:[[0.15,-0.5],[-0.2,-0.4]],night:1,desc:'온천 후 한 잔의 사케'},
  tea:{n:'찻집',tab:'food',img:'tea',fp:2,sc:1,cost:6000,price:600,cap:3,dur:18,eff:{hunger:-25,fun:20},wage:40,star:2,appeal:9,light:[[0.1,-0.45]],desc:'말차와 화과자가 있는 찻집'},
- ice:{n:'빙수 가게',tab:'food',img:'ice',fp:1,sc:1,cost:3500,price:450,cap:2,dur:10,eff:{hunger:-25,fun:18},wage:25,star:2,appeal:6,desc:'목욕 후 시원한 빙수'},
+ ice:{n:'빙수 가게',tab:'food',img:'ice',fp:1,sc:1.3,cost:3500,price:450,cap:2,dur:10,eff:{hunger:-25,fun:18},wage:25,star:2,appeal:6,desc:'목욕 후 시원한 빙수'},
  ramen:{n:'라멘집',tab:'food',img:'ramen',fp:2,sc:1,cost:4000,price:900,cap:3,dur:15,eff:{hunger:-70,fun:5},wage:45,star:1,appeal:6,light:[[0.15,-0.55],[0.28,-0.3]],desc:'유자 시오 라멘이 명물'},
  teishoku:{n:'정식당',tab:'food',img:'teishoku',fp:2,sc:1,cost:9000,price:1600,cap:4,dur:20,eff:{hunger:-90,fun:10},wage:80,star:2,appeal:8,light:[[0.3,-0.35]],desc:'오늘의 유자 연어 정식'},
  izakaya:{n:'이자카야',tab:'food',img:'izakaya',fp:2,sc:1,cost:16000,price:2200,cap:5,dur:25,eff:{hunger:-50,thirst:-50,fun:40},wage:120,star:3,appeal:10,night:1,light:[[-0.1,-0.6],[0.1,-0.6],[0.3,-0.6]],desc:'밤에 북적이는 선술집'},
  milk:{n:'우유 매점',tab:'shop',img:'yuzu',filter:'saturate(0.35) brightness(1.12)',fp:2,sc:1,cost:1500,price:250,cap:3,dur:8,eff:{thirst:-70},wage:20,star:1,appeal:4,desc:'목욕 후엔 역시 커피우유'},
  yuzu:{n:'유자차 매점',tab:'shop',img:'yuzu',fp:2,sc:1,cost:2500,price:350,cap:3,dur:8,eff:{thirst:-60,fun:8},wage:25,star:1,appeal:6,desc:'따끈한 유자차 한 잔'},
  gift:{n:'기념품 가게',tab:'shop',img:'gift',fp:2,sc:1,cost:6000,price:1500,cap:3,dur:12,eff:{fun:-0,joy:30},wage:50,star:2,appeal:7,fun:1,light:[[0.2,-0.4]],desc:'카피바라 인형이 인기'},
+ shoot:{n:'사격 노점',tab:'shop',img:'shoot',fp:1,sc:1.3,cost:3000,price:400,cap:2,dur:10,eff:{fun:45},wage:20,star:1,appeal:6,light:[[0.25,-0.45]],desc:'코르크 총으로 경품을 노려라!'},
+ massage:{n:'마사지실',tab:'shop',inside:1,img:'massage',fp:2,sc:1,cost:8000,price:1200,cap:2,dur:20,eff:{fatigue:-75,fun:10},wage:70,star:2,appeal:8,light:[[-0.15,-0.45]],desc:'뭉친 어깨를 꾹꾹'},
+ pingpong:{n:'탁구장',tab:'shop',img:'pingpong',fp:2,sc:1,cost:5000,price:300,cap:2,dur:14,eff:{fun:50,fatigue:10},wage:25,star:2,appeal:7,light:[[-0.15,-0.45]],desc:'온천 하면 역시 탁구!'},
+ nap:{n:'수면실',tab:'shop',inside:1,img:'nap',fp:2,sc:1,cost:10000,price:800,cap:4,dur:30,eff:{fatigue:-90},wage:50,star:3,appeal:8,light:[[-0.15,-0.45]],desc:'뜨끈하게 몸 지지고 한숨 자기'},
  room:{n:'객실 별채',tab:'shop',img:'room',fp:3,sc:1,cost:12000,price:6000,cap:4,dur:0,eff:{fatigue:-100},wage:90,star:2,appeal:10,stay:1,light:[[-0.2,-0.3],[0.25,-0.3],[0,-0.55]],desc:'밤에 묵어가는 손님용 객실'},
  sakura:{tree:1,n:'벚꽃나무',tab:'deco',img:'sakura',fp:1,sc:2.3,cost:1200,beauty:8,star:1,emit:'petal',desc:'꽃잎이 흩날려요'},
  maple:{tree:1,n:'단풍나무',tab:'deco',img:'maple',fp:1,sc:2.3,cost:1200,beauty:8,star:1,emit:'leaf',desc:'붉은 잎이 떨어져요'},
@@ -35,6 +39,11 @@ const DEF={
  bridge:{n:'붉은 아치 다리',tab:'deco',img:'bridge',fp:2,walk:1,sc:1,cost:5000,beauty:16,star:2,desc:'작은 개울 위 다이코바시'},
  waterwheel:{n:'물레방아',tab:'deco',img:'waterwheel',fp:2,sc:1,cost:6000,beauty:18,star:3,desc:'졸졸 물소리와 함께 도는 물레방아'},
  wisteria:{n:'등나무 정자',tab:'deco',img:'wisteria',fp:2,sc:1.05,cost:4500,beauty:16,star:2,desc:'보랏빛 등꽃 아래 돌벤치'},
+ ema:{n:'에마 걸이',tab:'deco',img:'ema',fp:1,sc:1.3,cost:1500,beauty:7,star:1,desc:'소원을 적은 나무패'},
+ jizo:{n:'지장보살',tab:'deco',img:'jizo',fp:1,sc:0.95,cost:1200,beauty:6,star:1,desc:'빨간 모자의 지장님'},
+ tanuki:{n:'너구리 상',tab:'deco',img:'tanuki',fp:1,sc:0.95,cost:1400,beauty:7,star:2,desc:'복을 부르는 너구리'},
+ iris:{n:'붓꽃 화단',tab:'deco',img:'iris',fp:1,sc:1.3,cost:800,beauty:6,star:1,desc:'보랏빛 붓꽃이 한가득'},
+ lanternpath:{n:'등롱 길',tab:'deco',img:'lanternpath',fp:1,sc:1.35,cost:1600,beauty:7,star:2,walk:1,light:[[-0.32,-0.4],[0.35,-0.55]],desc:'두 개의 석등이 밝히는 돌길'},
  lantern:{n:'석등롱',tab:'deco',img:'lantern',fp:1,sc:1.25,cost:600,beauty:5,star:1,light:[[0,-0.55]],desc:'밤이면 은은히 빛나요'},
  rocks:{n:'정원석',tab:'deco',img:'rocks',fp:1,sc:1.4,cost:400,beauty:4,star:1,desc:'이끼 낀 정원석'},
  shishi:{set:'trad',n:'시시오도시',tab:'theme',img:'shishi',fp:1,sc:1.3,cost:1800,beauty:9,star:1,sound:'shishi',desc:'딱! 대나무 소리가 정원에 울려요'},
@@ -106,9 +115,9 @@ function save(){if(window.READONLY||!S)return;S.t=Date.now();try{localStorage[SK
 const fmt=n=>Math.floor(n).toLocaleString('ko-KR');
 function avgNet(){const h=S.fin.hist;if(!h.length)return 0;const a=h.slice(-24);return a.reduce((s,x)=>s+x,0)/a.length}
 // ===== 에셋 =====
-const TIERED=['rock','hinoki','sauna','milky','ramen','teishoku','izakaya','yuzu','gift','room','cave','foot','fall','fam','wine','dango','sake','tea','ice'];
+const TIERED=['rock','hinoki','sauna','milky','ramen','teishoku','izakaya','yuzu','gift','room','cave','foot','fall','fam','wine','dango','sake','tea','ice','shoot','massage','pingpong','nap'];
 const IMG={},VAR=new Proxy({},{get(t,k){if(typeof k!='string'||t[k]||!k.includes('~m'))return t[k];const src=t[k.replace('~m','')];if(!src)return undefined;return t[k]={base:src.base,sil:src.sil,rimL:src.rimR,rimR:src.rimL,m:1}}}); // 좌우반전은 그릴 때 변환으로 처리(캔버스 추가 생성 없음)
-const NAMES=[...TIERED.flatMap(n=>[1,2,3,4,5].flatMap(l=>[n+'_lv'+l])),'rock','hinoki','sauna','milky','ramen','teishoku','izakaya','yuzu','gift','room','cave','foot','fall','fam','wine','dango','sake','tea','ice','sakura','maple','pine','lantern','torii','bamboo','sandgarden','bridge','waterwheel','wisteria','rocks','shishi','nodate','pagoda','bamboofence','cafe','lamppost','olive','lounger','cedar','mushroom','fern','birdhouse','snowman','hydrangea','tsukimi','kadomatsu','cb1','cb2','cb3','cb4','cw1','cw2','cw3','cw4','gate'];
+const NAMES=[...TIERED.flatMap(n=>[1,2,3,4,5].flatMap(l=>[n+'_lv'+l])),'rock','hinoki','sauna','milky','ramen','teishoku','izakaya','yuzu','gift','room','cave','foot','fall','fam','wine','dango','sake','tea','ice','shoot','massage','pingpong','nap','ema','jizo','tanuki','iris','lanternpath','sakura','maple','pine','lantern','torii','bamboo','sandgarden','bridge','waterwheel','wisteria','rocks','shishi','nodate','pagoda','bamboofence','cafe','lamppost','olive','lounger','cedar','mushroom','fern','birdhouse','snowman','hydrangea','tsukimi','kadomatsu','cb1','cb2','cb3','cb4','cw1','cw2','cw3','cw4','gate'];
 function loadImgs(){return Promise.all(NAMES.map(n=>new Promise(r=>{const i=new Image();i.onload=()=>{IMG[n]=i;r()};i.onerror=r;i.src='assets/'+n+'.png'})))}
 // 멀티 레이어 스프라이트: 마스크 경로 순서대로 픽셀을 잘라 레이어로 분리 (나머지 = ground)
 const roofY=(x,W,H)=>H*(0.294+0.144*x/W);

diff --git a/assets/water_extra.js b/assets/water_extra.js
@@ -1,0 +1,2 @@
+// tools/water_manual.py: 신규 노천탕 수면
+Object.assign(window.WATER||(window.WATER={}),{"cave_lv1": {"cx": 0.4647, "cy": 0.6558, "rx": 0.2277, "ry": 0.1304, "n": 5646}, "cave_lv2": {"cx": 0.5387, "cy": 0.6204, "rx": 0.2036, "ry": 0.1452, "n": 5816}, "cave_lv3": {"cx": 0.5362, "cy": 0.6187, "rx": 0.2059, "ry": 0.1475, "n": 6673}, "cave_lv4": {"cx": 0.5119, "cy": 0.752, "rx": 0.1241, "ry": 0.0787, "n": 2649}, "cave_lv5": {"cx": 0.4631, "cy": 0.7321, "rx": 0.1659, "ry": 0.0936, "n": 4213}, "foot_lv1": {"cx": 0.4332, "cy": 0.4076, "rx": 0.1902, "ry": 0.1256, "n": 2777}, "foot_lv2": {"cx": 0.37, "cy": 0.47, "rx": 0.22, "ry": 0.12, "n": 1}, "foot_lv3": {"cx": 0.4397, "cy": 0.6479, "rx": 0.0791, "ry": 0.058, "n": 1111}, "foot_lv4": {"cx": 0.4217, "cy": 0.6458, "rx": 0.0817, "ry": 0.0483, "n": 658}, "foot_lv5": {"cx": 0.4223, "cy": 0.646, "rx": 0.0795, "ry": 0.0487, "n": 744}, "fall_lv1": {"cx": 0.4702, "cy": 0.5985, "rx": 0.2327, "ry": 0.1881, "n": 7338}, "fall_lv2": {"cx": 0.5325, "cy": 0.6699, "rx": 0.2563, "ry": 0.1585, "n": 7604}, "fall_lv3": {"cx": 0.5285, "cy": 0.6737, "rx": 0.2514, "ry": 0.1582, "n": 8125}, "fall_lv4": {"cx": 0.4992, "cy": 0.6177, "rx": 0.193, "ry": 0.1263, "n": 5689}, "fall_lv5": {"cx": 0.4558, "cy": 0.6842, "rx": 0.1523, "ry": 0.0882, "n": 4184}, "wine_lv1": {"cx": 0.4, "cy": 0.28, "rx": 0.25, "ry": 0.13, "n": 1}, "wine_lv2": {"cx": 0.42, "cy": 0.4, "rx": 0.2, "ry": 0.09, "n": 1}, "wine_lv3": {"cx": 0.43, "cy": 0.44, "rx": 0.17, "ry": 0.1, "n": 1}, "wine_lv4": {"cx": 0.46, "cy": 0.43, "rx": 0.15, "ry": 0.07, "n": 1}, "wine_lv5": {"cx": 0.45, "cy": 0.7, "rx": 0.27, "ry": 0.11, "n": 1}, "cave": {"cx": 0.4647, "cy": 0.6558, "rx": 0.2277, "ry": 0.1304, "n": 5646}, "foot": {"cx": 0.4332, "cy": 0.4076, "rx": 0.1902, "ry": 0.1256, "n": 2777}, "fall": {"cx": 0.4702, "cy": 0.5985, "rx": 0.2327, "ry": 0.1881, "n": 7338}, "wine": {"cx": 0.4, "cy": 0.28, "rx": 0.25, "ry": 0.13, "n": 1}});

diff --git a/tools/scaleshot.js b/tools/scaleshot.js
@@ -1,0 +1,9 @@
+// 소형 설치물 실제 게임 축척 확인 (확대, 손님 포함)
+const {chromium}=require('playwright');
+(async()=>{const b=await chromium.launch();const p=await b.newPage({viewport:{width:1400,height:900}});const errs=[];p.on('pageerror',e=>errs.push(e.message));
+await p.goto('http://localhost:8765/index.html?notitle');await p.waitForFunction(()=>window.__ready);
+await p.evaluate(()=>{const D=__dbg,S=D.S;S.objs=S.objs.filter(o=>o.k=='gate');
+ const ks=['dango','ice','shoot','ema','jizo','tanuki','iris','lanternpath','lantern','torii','ramen','sake'];let x=6,y=6;
+ for(const k of ks){const f=D.DEF[k].fp;S.objs.push({k,x,y,lv:1,rot:0,price:D.DEF[k].price||0,uses:0,earn:0,pic:''});x+=f+1;if(x>18){x=6;y+=3}}
+ D.occ();D.setHour(12);D.focusXY(12,8,2.2)});
+await p.waitForTimeout(6000);await p.screenshot({path:'shots/r5/scale_small.png'});console.log('ERR',JSON.stringify(errs));await b.close()})();

diff --git a/index.html b/index.html
@@ -37,7 +37,7 @@
 <script src="diag.js"></script>
 <script src="assets/icons.js"></script>
 <script src="save.js"></script>
-<script src="assets/water.js"></script><script src="assets/lights.js"></script>
+<script src="assets/water.js"></script><script src="assets/water_extra.js"></script><script src="assets/lights.js"></script>
 <script src="game.js"></script>
 <script src="audio.js"></script>
 <script src="meta.js"></script>

diff --git a/tools/water_manual.py b/tools/water_manual.py
@@ -1,0 +1,32 @@
+# 신규 노천탕 수면 영역: 색 기준(청록/와인)으로 최대 연결영역을 찾아 타원 추정 → assets/water_extra.js
+import json,numpy as np,colorsys
+from PIL import Image,ImageDraw
+from scipy import ndimage
+out={};sheet=[]
+for b in ['cave','foot','fall','wine']:
+  for l in range(1,6):
+    k=f'{b}_lv{l}';a=np.asarray(Image.open(f'assets/{k}.png').convert('RGBA')).astype(int)
+    r,g,bl,al=a[...,0],a[...,1],a[...,2],a[...,3]
+    if b=='wine': m=(r>70)&(r>g*1.8)&(r>bl*1.3)&(al>0)
+    else: m=(bl>g*0.75)&(g>r*1.15)&(bl>90)&(al>0)
+    m=ndimage.binary_opening(m,iterations=1)
+    lab,n=ndimage.label(ndimage.binary_closing(m,iterations=3))
+    if not n: print('none',k);continue
+    sz=ndimage.sum(np.ones_like(lab),lab,range(1,n+1));mm=lab==(np.argmax(sz)+1)
+    ys,xs=np.nonzero(mm);H,W=mm.shape
+    cx,cy=xs.mean()/W,ys.mean()/H;rx=xs.std()*1.7/W;ry=ys.std()*1.7/H
+    out[k]={'cx':round(cx,4),'cy':round(cy,4),'rx':round(rx,4),'ry':round(ry,4),'n':int(mm.sum())}
+    im=Image.open(f'assets/{k}.png').convert('RGBA');d=ImageDraw.Draw(im)
+    d.ellipse([(cx-rx)*W,(cy-ry)*H,(cx+rx)*W,(cy+ry)*H],outline=(255,255,0,255),width=2);sheet.append(im)
+MAN={'foot_lv2':(.37,.47,.22,.12),'wine_lv1':(.4,.28,.25,.13),'wine_lv2':(.42,.4,.2,.09),'wine_lv3':(.43,.44,.17,.1),'wine_lv4':(.46,.43,.15,.07),'wine_lv5':(.45,.7,.27,.11)}
+for k,(a1,a2,a3,a4) in MAN.items(): out[k]={'cx':a1,'cy':a2,'rx':a3,'ry':a4,'n':1}
+for k in [b for b in ['cave','foot','fall','wine']]: out[k]=out[k+'_lv1']
+open('assets/water_extra.js','w').write('// tools/water_manual.py: 신규 노천탕 수면\nObject.assign(window.WATER||(window.WATER={}),'+json.dumps(out)+');\n')
+S=Image.new('RGBA',(5*300,4*260),(60,80,60,255))
+for i,im in enumerate(sheet): S.paste(im,((i%5)*300,(i//5)*260),im)
+S=Image.new('RGBA',(5*300,4*260),(60,80,60,255));sheet=[]
+for k in sorted(out):
+  if '_lv' not in k: continue
+  im=Image.open(f'assets/{k}.png').convert('RGBA');W,H=im.size;e=out[k];d=ImageDraw.Draw(im);d.ellipse([(e['cx']-e['rx'])*W,(e['cy']-e['ry'])*H,(e['cx']+e['rx'])*W,(e['cy']+e['ry'])*H],outline=(255,255,0,255),width=2);sheet.append(im)
+for i,im in enumerate(sheet): S.paste(im,((i%5)*300,(i//5)*260),im)
+S.save('shots/r5/water_new.png');print(len(out))

diff --git a/CHANGELOG.md b/CHANGELOG.md
@@ -165,3 +165,10 @@
 ## Round 5e
 - 신규 시설 9종: 동굴탕, 족욕탕, 폭포탕, 가족탕, 와인탕, 당고 노점, 사케 바, 찻집, 빙수 가게 (45° Lv1/3/5 아트, Lv2/4는 하위 단계 재사용), 조명 마스크, 밸런스/별 해금
 - sprite_clean.py: NOINT 옵션 (내부 수면 보존)
+
+## Round 5f
+- 신규 시설 4종: 사격 노점, 마사지실, 탁구장, 수면실 (Lv1-5 아트, 조명, 밸런스)
+- 데코 5종: 에마 걸이, 지장보살, 너구리 상, 붓꽃 화단, 등롱 길(통행 가능)
+- 5e 시설 9종 Lv2/Lv4 전용 아트
+- 동굴/족욕/폭포/와인탕 수면 영역 수동 정의 (assets/water_extra.js, tools/water_manual.py)
+- 소형 시설 축척 조정 (당고/빙수/사격 sc1.3, 지장·너구리 sc0.95)
